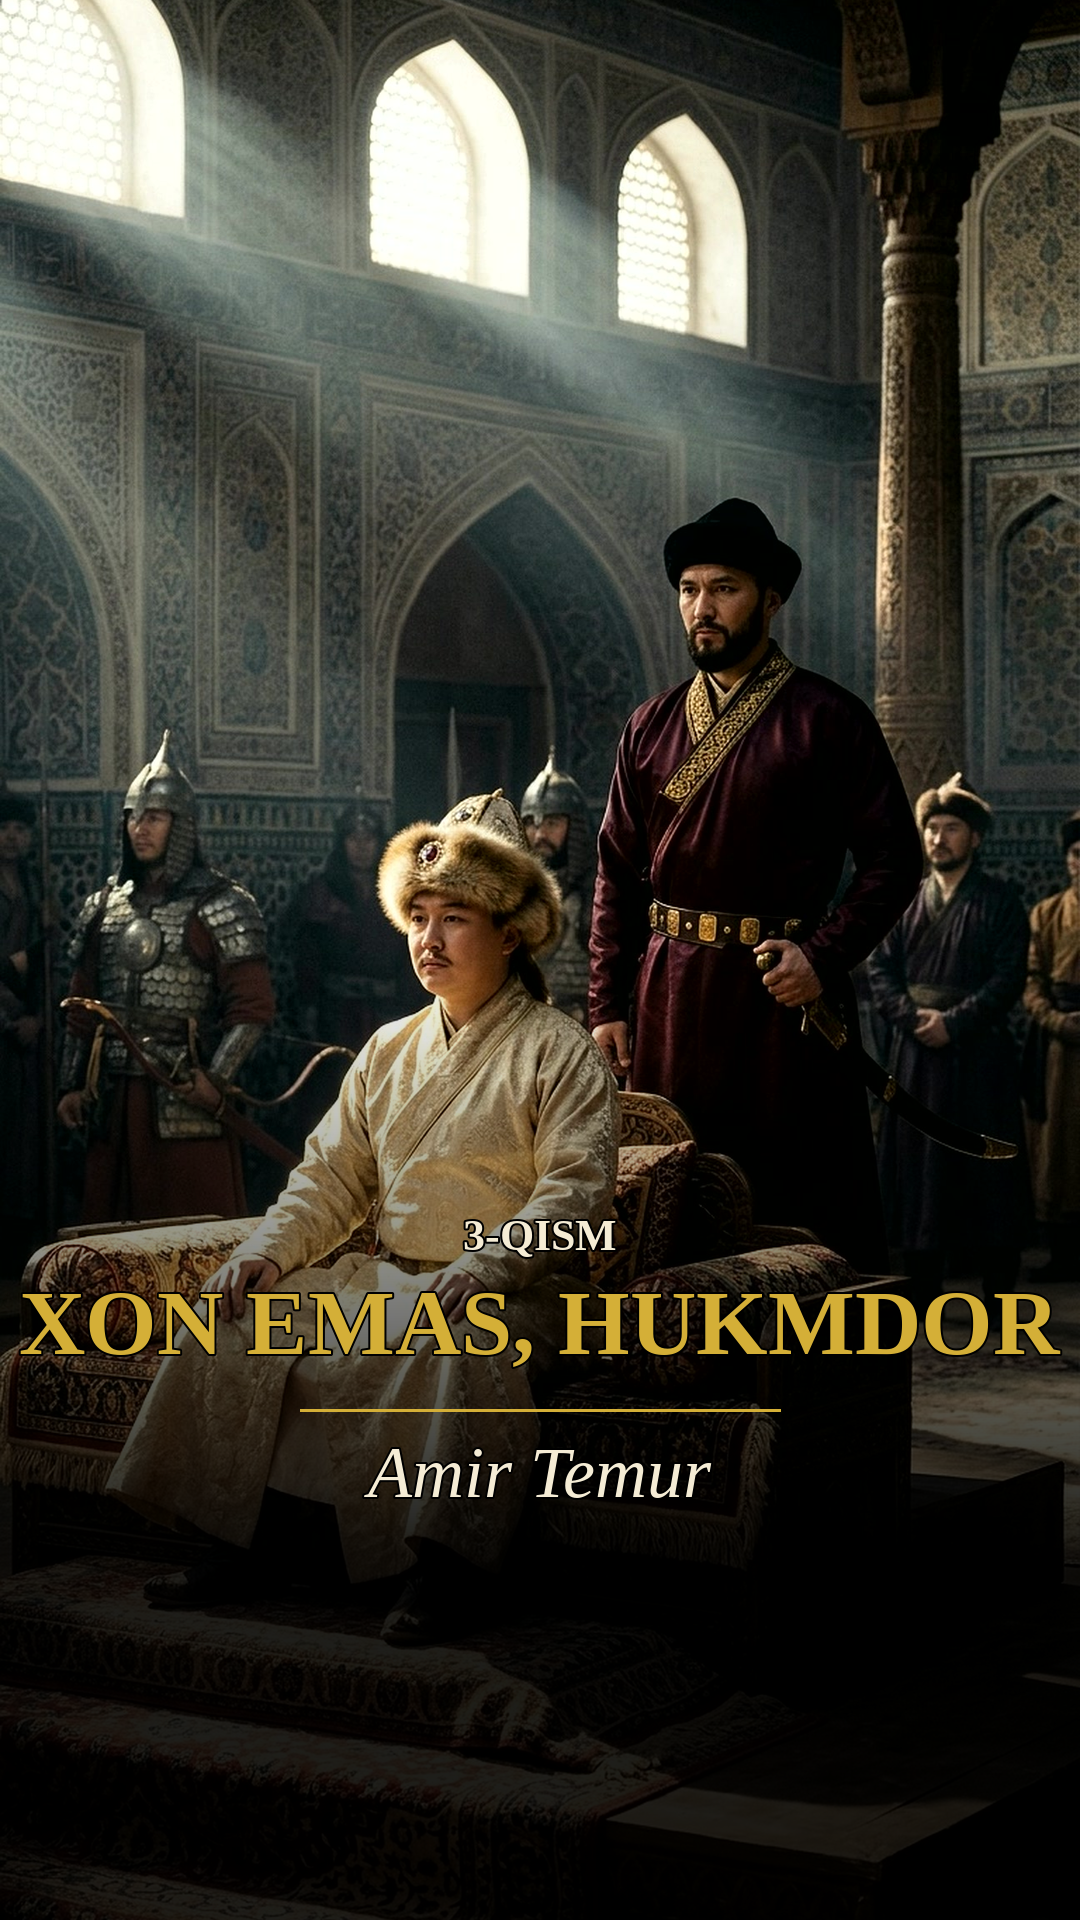
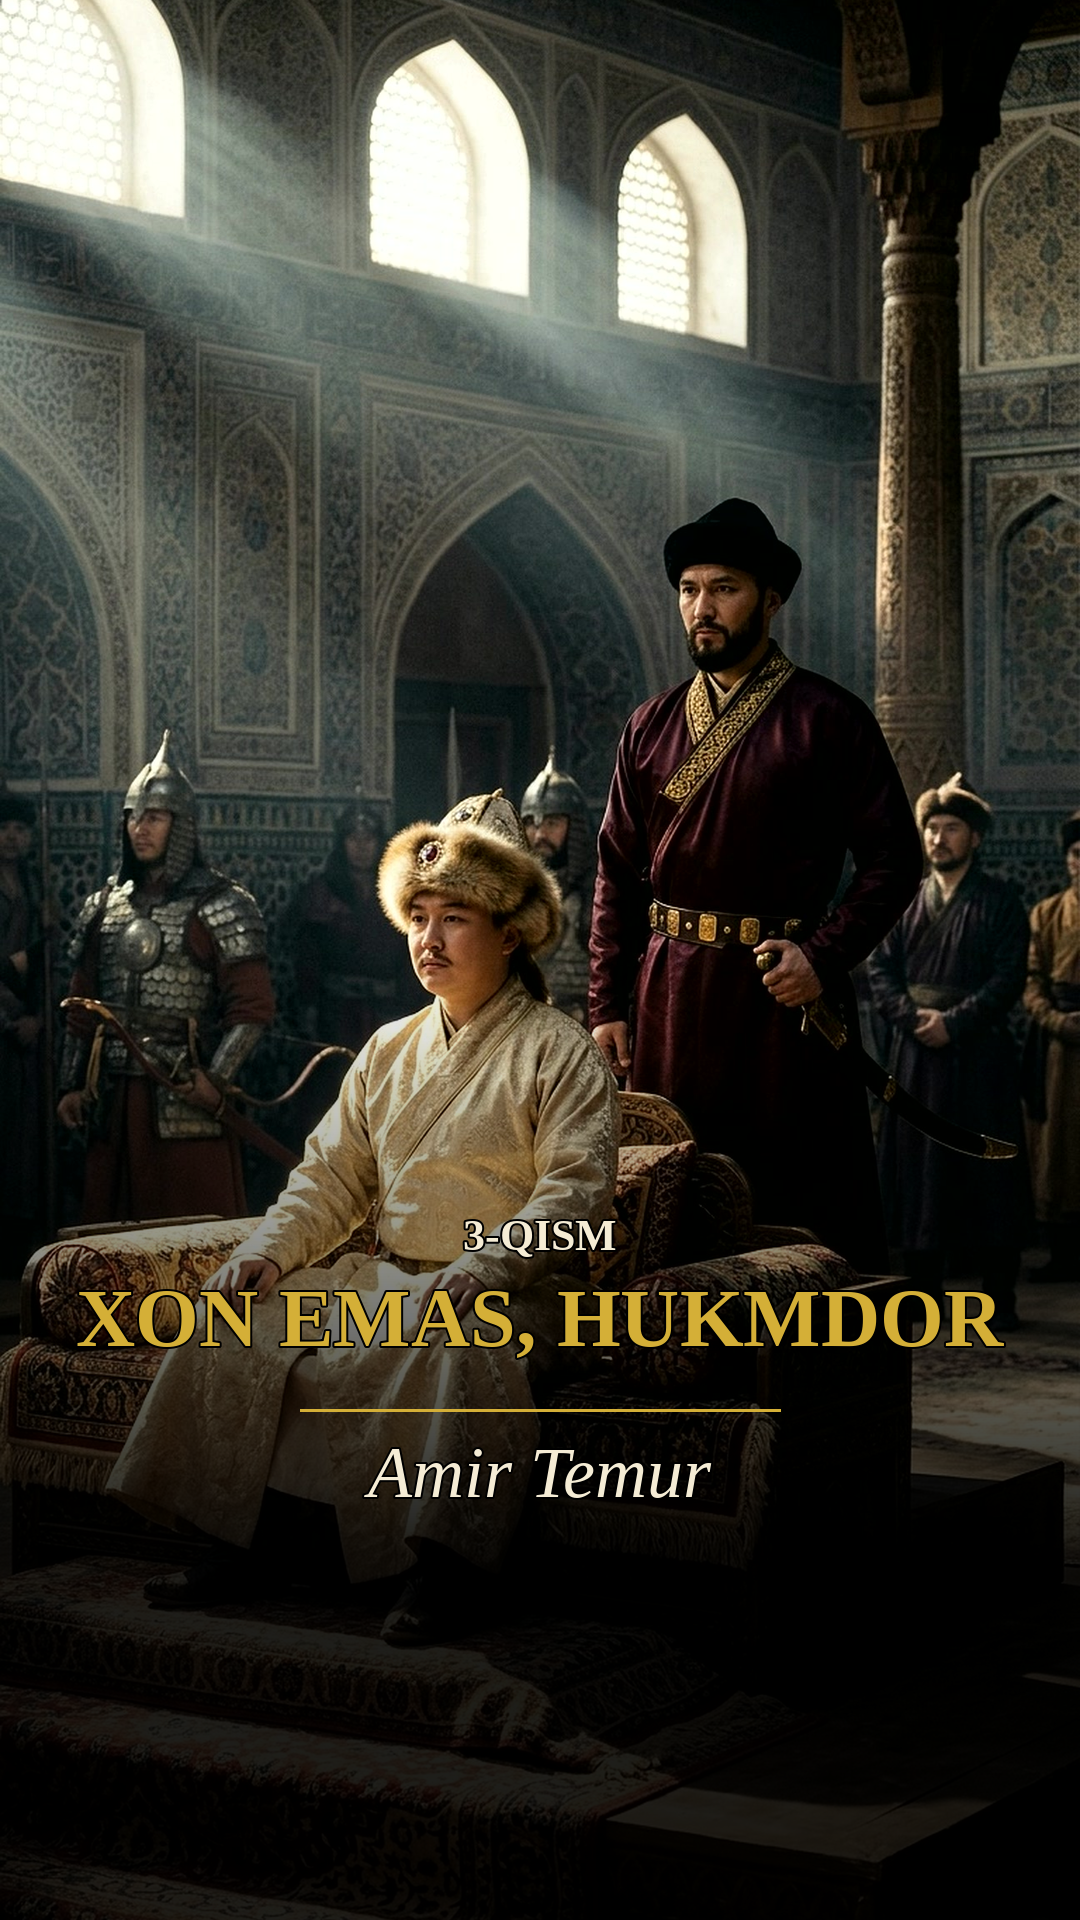
3-qism: muqova sarlavhasi kichraytirildi
Claude-Session: https://claude.ai/code/session_01TTDtXEzLGwoNkbUE5deoho

Changed region(s): [[0.5194, 0.6562, 0.9778, 0.7188], [0.0306, 0.6562, 0.4889, 0.7188]]

diff --git a/video/edit/insta_cover_p3.py b/video/edit/insta_cover_p3.py
@@ -17,7 +17,7 @@ cov = Image.alpha_composite(base.convert('RGBA'), ov); d = ImageDraw.Draw(cov)
 def centered(text, font, y, fill):
     w = d.textbbox((0, 0), text, font=font)[2]; d.text(((1080 - w) / 2, y), text, font=font, fill=fill, stroke_width=2, stroke_fill=(0, 0, 0))
 centered('3-QISM', ImageFont.truetype(B, 44), 1210, CREAM)
-centered("XON EMAS, HUKMDOR", ImageFont.truetype(B, 92), 1272, GOLD)
+centered("XON EMAS, HUKMDOR", ImageFont.truetype(B, 82), 1272, GOLD)
 d.line((300, 1410, 780, 1410), fill=GOLD, width=3)
 centered('Amir Temur', ImageFont.truetype(I, 72), 1432, CREAM)
 cov.convert('RGB').save(root / 'instagram/cover_part3.png')
